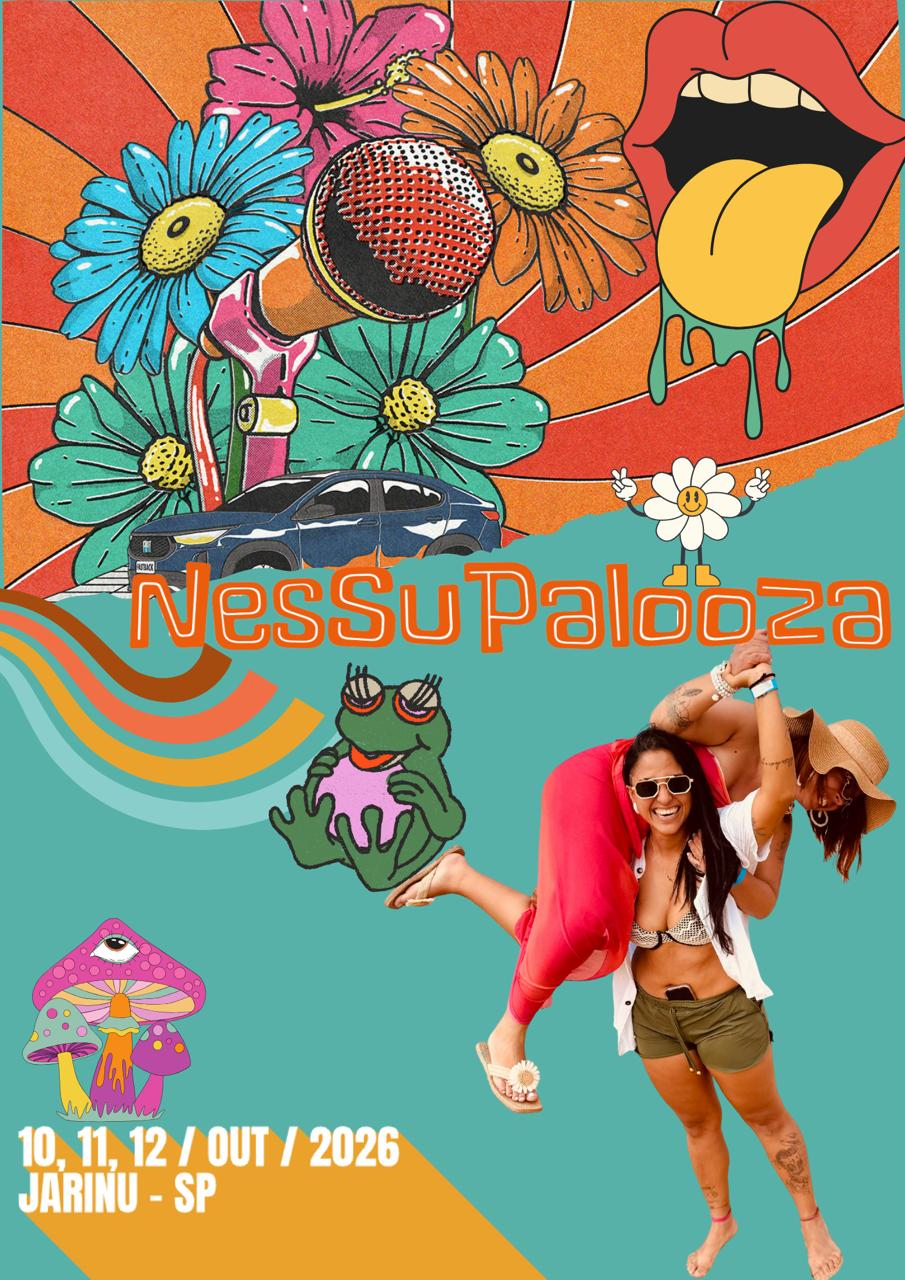
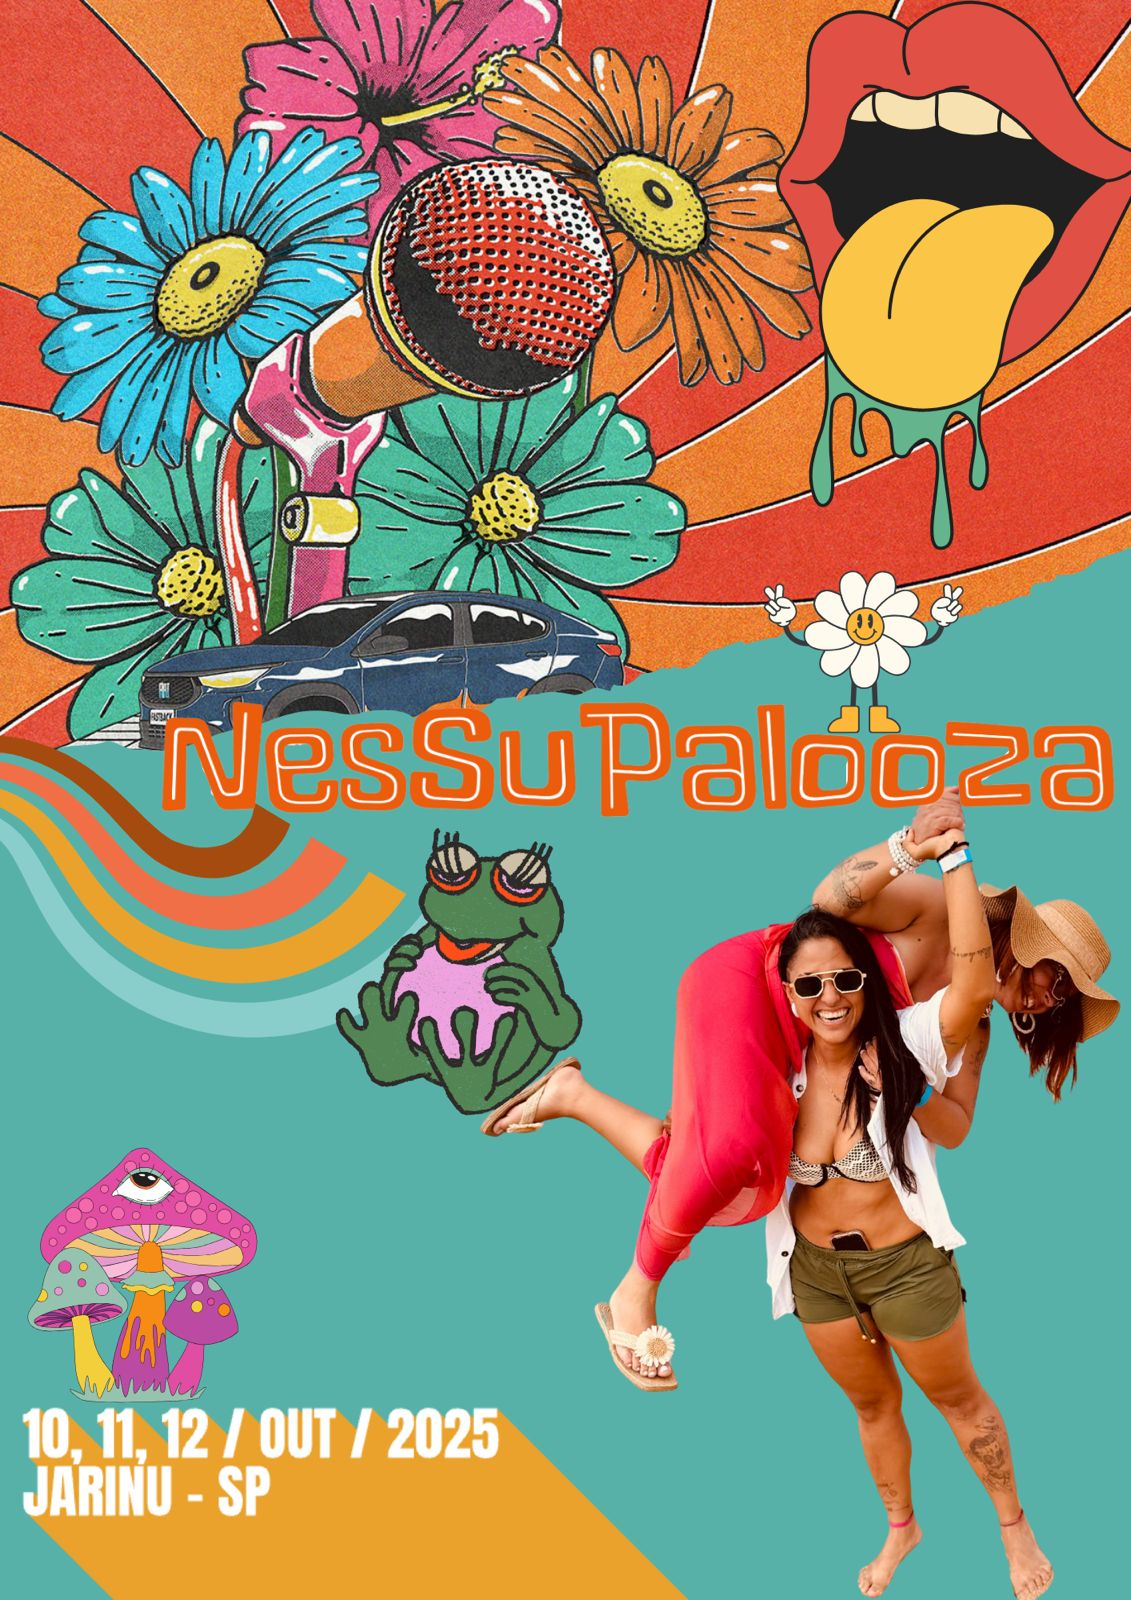
Add files via upload

diff --git a/style.css b/style.css
@@ -32,11 +32,15 @@ body {
 /* -----------------------------
     Banner responsivo (<header>)
 ----------------------------- */
+/* -----------------------------
+    Banner responsivo (<header>) - Ajuste para Mobile
+----------------------------- */
 .hero-banner { 
   position: relative;
   width: 100%;
+  /* ALTERAÇÃO CHAVE: Usamos 100dvh (Dynamic Viewport Height) */
+  /* Ele se ajusta automaticamente para descontar barras de navegação do celular. */
   height: 100dvh; 
-  height: 100vh;
   background: black;
   display: flex;
   align-items: center;

diff --git a/app.js b/app.js
@@ -257,7 +257,7 @@ formDados.addEventListener('submit', (event) => {
 🎟 Ingresso: ${ingressoSelecionado}
 💰 Valor: ${valorIngresso}
 
-*Aguardando seu PIX para confirmação.*`;
+*Aguardando Anciosamente para fazer meu pagamento!!!.*`;
 
     let telefoneHost = "5511947310530"; 
     let url = `https://wa.me/${telefoneHost}?text=${encodeURIComponent(msg)}`;
